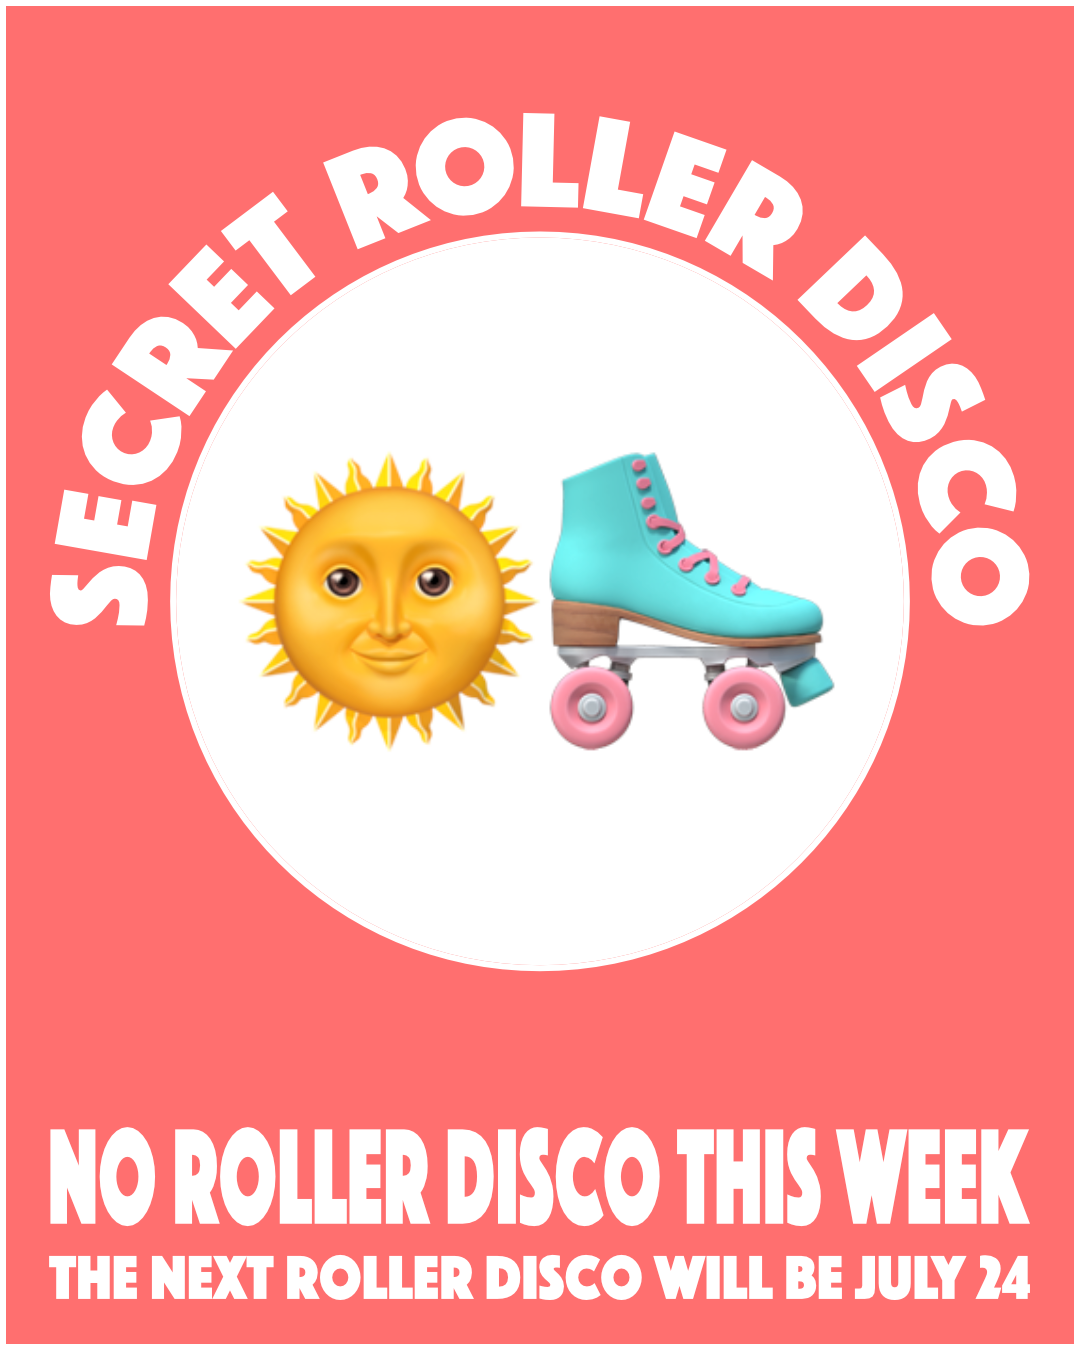
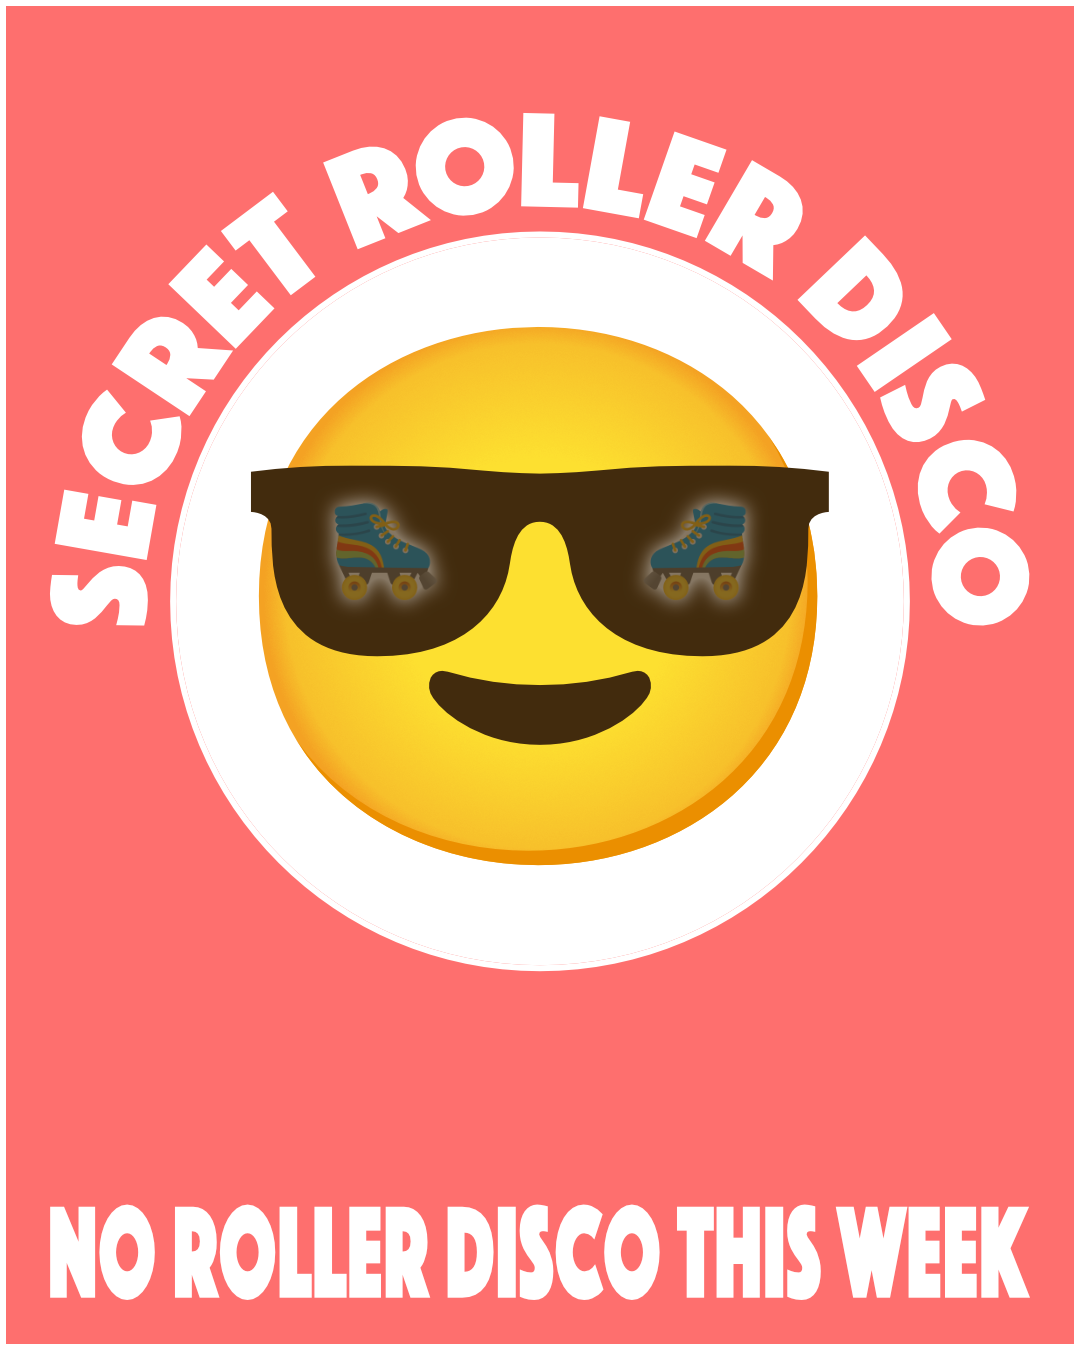
new 'no disco' flyer

Changed region(s): [[0.2139, 0.2178, 0.7944, 0.6533], [0.0306, 0.8089, 0.9778, 0.9644]]

diff --git a/_posts/2025-08-28-none.md b/_posts/2025-08-28-none.md
@@ -1,0 +1,3 @@
+---
+layout: default
+---
